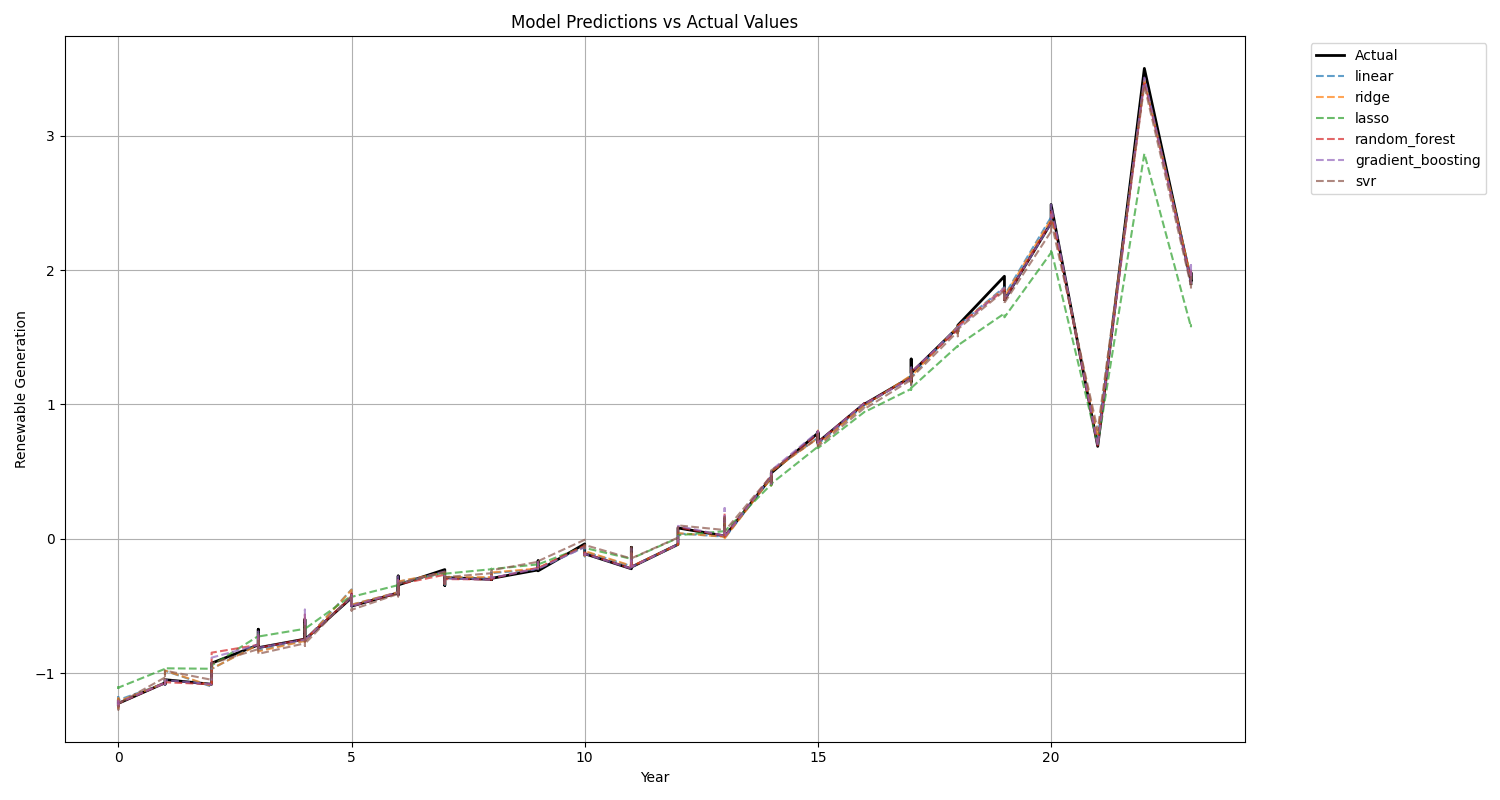
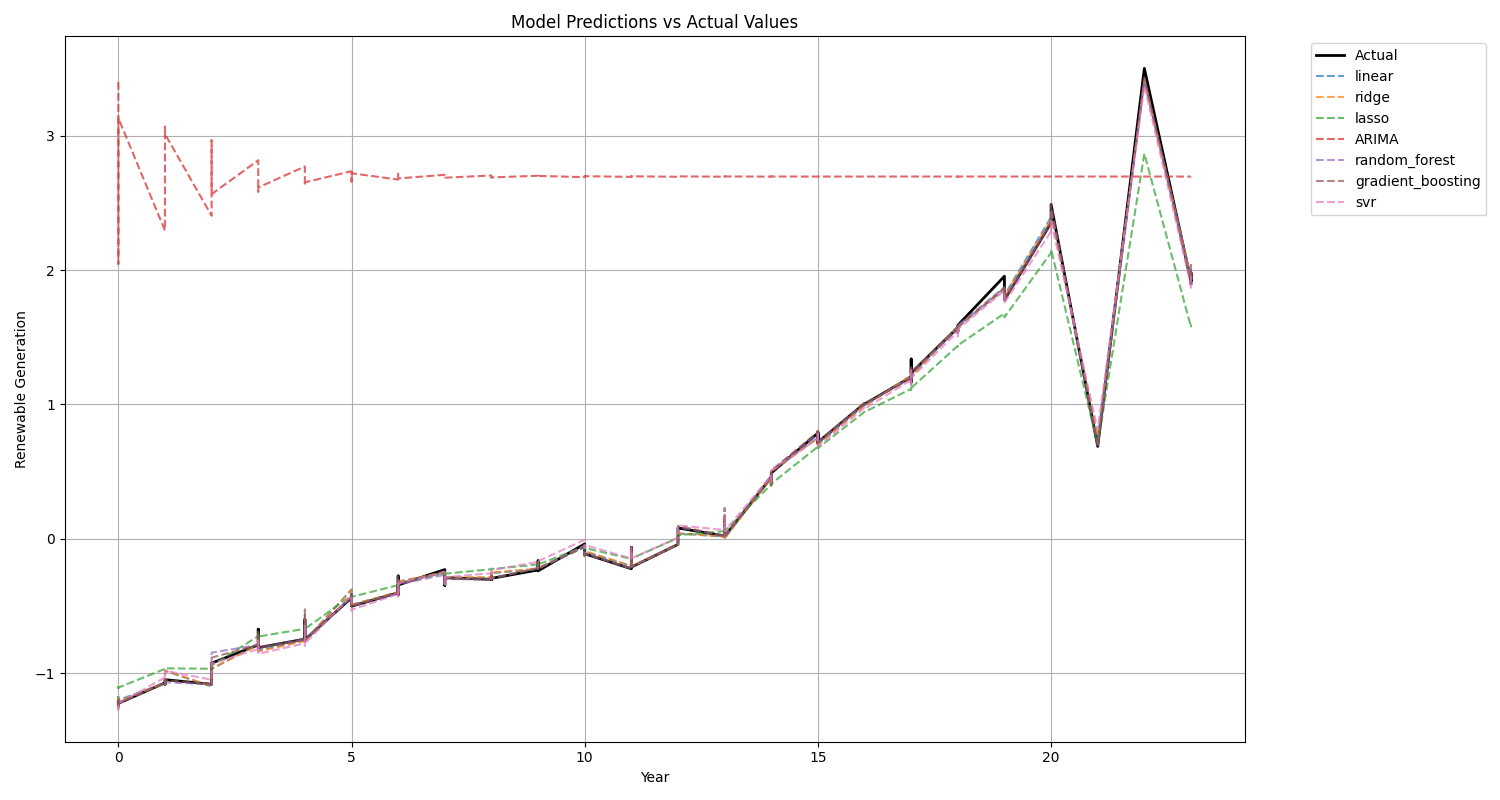
updated armia calc

diff --git a/src/models/train.py b/src/models/train.py
@@ -215,73 +215,143 @@ class ModelTrainer:
                      y_train: pd.Series, y_test: pd.Series) -> Dict:
         """
         Train all models and evaluate their performance.
+
+        Args:
+            X_train: Training features
+            X_test: Testing features
+            y_train: Training target values
+            y_test: Testing target values
+
+        Returns:
+            Dictionary containing evaluation metrics for all models
         """
-        metrics = {}
+        try:
+            metrics = {}
 
-        # Train baseline models
-        logger.info("Training baseline models...")
-        time_col = self.config['training'].get('time_column', 'year')
-        feature_cols = [col for col in X_train.columns if col != time_col]
+            # Train baseline models
+            logger.info("Training baseline models...")
+            time_col = self.config['training'].get('time_column', 'year')
+            feature_cols = [col for col in X_train.columns if col != time_col]
 
-        # Train linear models using only feature columns
-        logger.info("Training linear models...")
-        self.baseline_models.train_linear_models(X_train[feature_cols], y_train)
+            # Train linear models using only feature columns
+            logger.info("Training linear models...")
+            self.baseline_models.train_linear_models(X_train[feature_cols], y_train)
 
-        # ARIMA model training
-        if self.config['training'].get('train_arima', True):
-            try:
-                logger.info("Training ARIMA model...")
-                # Group data by year and calculate mean values
-                time_series_data = pd.DataFrame({
-                    'year': X_train[time_col],
-                    'value': y_train
-                }).groupby('year')['value'].mean()
+            # ARIMA model training
+            if self.config['training'].get('train_arima', True):
+                try:
+                    logger.info("Training ARIMA model...")
+                    # Create time series from training data
+                    time_series = pd.DataFrame({
+                        'year': pd.to_numeric(X_train[time_col]),
+                        'value': y_train
+                    }).sort_values('year')
 
-                # Create proper datetime index
-                time_series_data.index = pd.date_range(
-                    start=f"{int(time_series_data.index.min())}-01-01",
-                    end=f"{int(time_series_data.index.max())}-12-31",
-                    freq='YE'
-                )[:len(time_series_data)]
+                    # Get unique years and values
+                    yearly_data = time_series.groupby('year')['value'].mean().reset_index()
 
-                # Train ARIMA model
-                logger.info(
-                    f"Training ARIMA on {len(time_series_data)} time points from {time_series_data.index.min().year} to {time_series_data.index.max().year}")
-                arima_order = tuple(self.config['baseline_models'].get('arima_order', [1, 1, 1]))
-                self.baseline_models.train_arima(time_series_data, order=arima_order)
-                logger.info("Successfully trained ARIMA model")
+                    # Create proper datetime index
+                    time_index = pd.date_range(
+                        start=f"{2000}-01-01",
+                        periods=len(yearly_data),
+                        freq='YE'
+                    )
 
-            except Exception as e:
-                logger.warning(f"Could not train ARIMA model: {str(e)}")
-                logger.warning("Continuing without ARIMA model...")
+                    # Create time series with proper datetime index
+                    time_series_data = pd.Series(
+                        data=yearly_data['value'].values,
+                        index=time_index,
+                        name='value'
+                    )
 
-        # Evaluate baseline models
-        baseline_metrics = self.baseline_models.evaluate_models(X_test[feature_cols], y_test)
-        metrics['baseline'] = baseline_metrics
+                    # Train ARIMA model
+                    logger.info(
+                        f"Training ARIMA on {len(time_series_data)} time points from {time_series_data.index.min().year} to {time_series_data.index.max().year}")
+                    arima_order = tuple(
+                        self.config['baseline_models'].get('arima_order', [1, 1, 1]))
+                    logger.info(f"Using ARIMA order {arima_order}")
 
-        # Train advanced models
-        logger.info("Training advanced models...")
-        tune_hyperparameters = self.config['training'].get('tune_hyperparameters', True)
+                    self.baseline_models.train_arima(time_series_data, order=arima_order)
+                    logger.info("Successfully trained ARIMA model")
 
-        self.advanced_models.train_random_forest(
-            X_train[feature_cols], y_train, tune_hyperparameters=tune_hyperparameters
-        )
-        logger.info("Trained Random Forest model")
+                except Exception as e:
+                    logger.warning(f"Could not train ARIMA model: {str(e)}")
+                    logger.warning("Continuing without ARIMA model...")
 
-        self.advanced_models.train_gradient_boosting(
-            X_train[feature_cols], y_train, tune_hyperparameters=tune_hyperparameters
-        )
-        logger.info("Trained Gradient Boosting model")
+            # Evaluate baseline models
+            logger.info("Evaluating baseline models...")
+            baseline_metrics = self.baseline_models.evaluate_models(X_test[feature_cols], y_test)
+            metrics['baseline'] = baseline_metrics
 
-        self.advanced_models.train_svr(
-            X_train[feature_cols], y_train, tune_hyperparameters=tune_hyperparameters
-        )
-        logger.info("Trained SVR model")
+            # Train advanced models
+            logger.info("Training advanced models...")
+            tune_hyperparameters = self.config['training'].get('tune_hyperparameters', True)
 
-        advanced_metrics = self.advanced_models.evaluate_models(X_test[feature_cols], y_test)
-        metrics['advanced'] = advanced_metrics
+            # Random Forest
+            logger.info("Training Random Forest...")
+            self.advanced_models.train_random_forest(
+                X_train[feature_cols], y_train, tune_hyperparameters=tune_hyperparameters
+            )
+            logger.info("Trained Random Forest model")
 
-        return metrics
+            # Gradient Boosting
+            logger.info("Training Gradient Boosting...")
+            self.advanced_models.train_gradient_boosting(
+                X_train[feature_cols], y_train, tune_hyperparameters=tune_hyperparameters
+            )
+            logger.info("Trained Gradient Boosting model")
+
+            # SVR
+            logger.info("Training SVR...")
+            self.advanced_models.train_svr(
+                X_train[feature_cols], y_train, tune_hyperparameters=tune_hyperparameters
+            )
+            logger.info("Trained SVR model")
+
+            # Evaluate advanced models
+            logger.info("Evaluating advanced models...")
+            advanced_metrics = self.advanced_models.evaluate_models(X_test[feature_cols], y_test)
+            metrics['advanced'] = advanced_metrics
+
+            # Log best models based on R2 score
+            self._log_best_models(metrics)
+
+            # Save model metrics
+            logger.info("Saving training results...")
+            self.save_results(metrics)
+
+            return metrics
+
+        except Exception as e:
+            logger.error(f"Error in train_models: {str(e)}")
+            raise
+
+    def _log_best_models(self, metrics: Dict) -> None:
+        """
+        Log the best performing models based on R2 score.
+
+        Args:
+            metrics: Dictionary of model metrics
+        """
+        try:
+            # Combine all model metrics
+            all_models = {}
+            for model_type in metrics:
+                for model_name, model_metrics in metrics[model_type].items():
+                    if 'r2' in model_metrics:
+                        all_models[f"{model_type}_{model_name}"] = model_metrics['r2']
+
+            # Sort models by R2 score
+            sorted_models = sorted(all_models.items(), key=lambda x: x[1], reverse=True)
+
+            logger.info("\nModel Performance Summary (R² Score):")
+            logger.info("-" * 40)
+            for model_name, r2_score in sorted_models:
+                logger.info(f"{model_name:30s}: {r2_score:.4f}")
+            logger.info("-" * 40)
+
+        except Exception as e:
+            logger.warning(f"Could not log best models: {str(e)}")
 
     def save_results(self, metrics: Dict) -> None:
         """

diff --git a/src/models/baseline_models.py b/src/models/baseline_models.py
@@ -45,8 +45,7 @@ class BaselineModels:
 
         return self.models
 
-    def train_arima(self, timeseries: pd.Series,
-                    order: Tuple[int, int, int] = (1, 1, 1)) -> Dict:
+    def train_arima(self, timeseries: pd.Series, order: Tuple[int, int, int] = (1, 1, 1)) -> Dict:
         """
         Train ARIMA model for time series prediction.
 
@@ -60,10 +59,25 @@ class BaselineModels:
         logger.info(f"Training ARIMA model with order {order}...")
 
         try:
-            model = ARIMA(timeseries, order=order)
+            # Handle NaN values
+            timeseries = timeseries.ffill().bfill()  # Using newer pandas methods
+
+            # Store order for later use
+            self._arima_order = order
+
+            # Train model with optimized parameters
+            model = ARIMA(
+                timeseries,
+                order=order,
+                enforce_stationarity=False,
+                enforce_invertibility=False
+            )
             fitted_model = model.fit()
+
+            # Store model
             self.models['arima'] = fitted_model
             logger.info("Successfully trained ARIMA model")
+
             return {'arima': fitted_model}
 
         except Exception as e:
@@ -97,9 +111,63 @@ class BaselineModels:
         # Evaluate ARIMA model if available
         if 'arima' in self.models:
             try:
-                # Get predictions for the test period
+                # Get predictions for test period
                 arima_model = self.models['arima']
                 forecast = arima_model.forecast(steps=len(y_test))
+
+                # Handle differencing if needed
+                if hasattr(self, '_arima_order') and self._arima_order[1] > 0:
+                    forecast = forecast.cumsum() + y_test.iloc[0]
+
+                metrics['arima'] = {
+                    'mse': mean_squared_error(y_test, forecast),
+                    'rmse': np.sqrt(mean_squared_error(y_test, forecast)),
+                    'mae': mean_absolute_error(y_test, forecast),
+                    'r2': r2_score(y_test, forecast)
+                }
+                logger.info("Successfully evaluated ARIMA model")
+            except Exception as e:
+                logger.warning(f"Could not evaluate ARIMA model: {str(e)}")
+
+        self.metrics = metrics
+        return metrics
+
+    def evaluate_models(self, X_test: pd.DataFrame, y_test: pd.Series) -> Dict:
+        """
+        Evaluate trained models using multiple metrics.
+
+        Args:
+            X_test: Test features
+            y_test: Test target values
+
+        Returns:
+            Dictionary of evaluation metrics for each model
+        """
+        metrics = {}
+
+        # Evaluate linear models
+        for name, model in self.models.items():
+            if name != 'arima':
+                y_pred = model.predict(X_test)
+                metrics[name] = {
+                    'mse': mean_squared_error(y_test, y_pred),
+                    'rmse': np.sqrt(mean_squared_error(y_test, y_pred)),
+                    'mae': mean_absolute_error(y_test, y_pred),
+                    'r2': r2_score(y_test, y_pred)
+                }
+
+        # Evaluate ARIMA model if available
+        if 'arima' in self.models:
+            try:
+                # Get predictions for test period
+                arima_model = self.models['arima']
+
+                # Create proper forecast index
+                forecast = arima_model.forecast(steps=len(y_test))
+
+                # If differencing was applied, cumsum to get original scale
+                if arima_model.order[1] > 0:  # If d > 0
+                    forecast = forecast.cumsum() + y_test.iloc[0]
 
                 metrics['arima'] = {
                     'mse': mean_squared_error(y_test, forecast),
